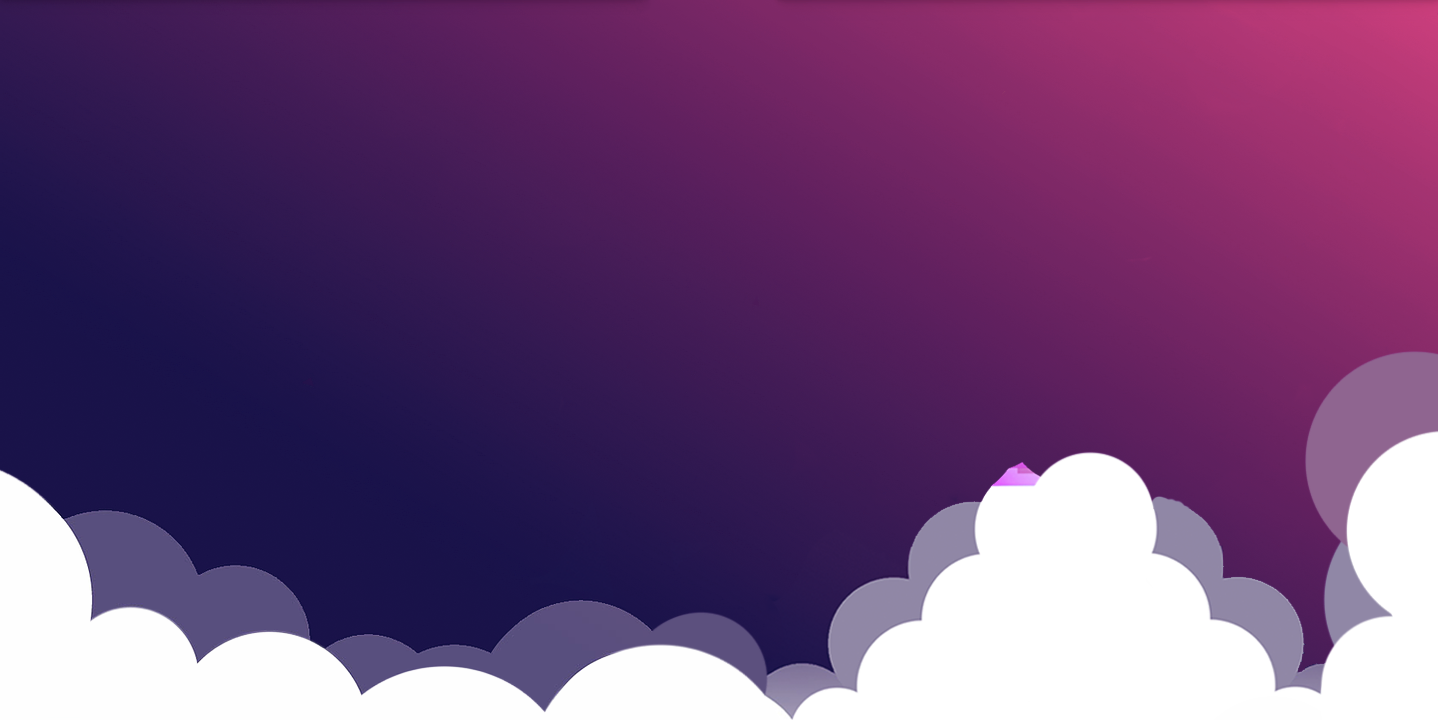
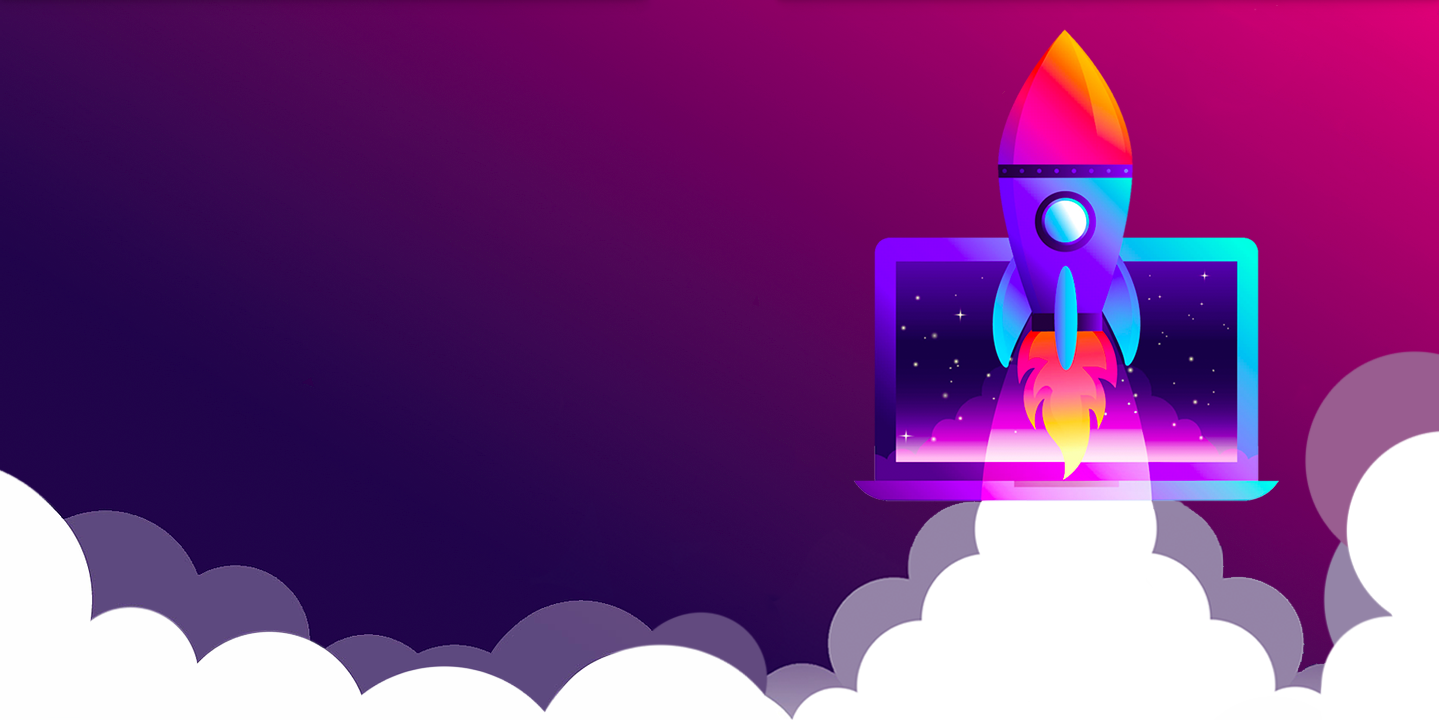
'update'

diff --git a/index.html b/index.html
@@ -57,7 +57,7 @@
                 <h1 class="title text-white mb-20"><span class="one">Digital Design &</span><span class="two">Development Agency</span></h1>
                 <p class="text-white mb-50 lineheight1">
                     We are a Sydney based digital design & development agency here to provide you with quality and affordable services. Our goal is your satisfaction and we are here to work with you every step of the way!
-                    <img src="./images/others/others/index/Main.png" alt="" class="main">
+<!--                    <img src="./images/others/index/Main.png" alt="" class="main">-->
                 </p>
                 <div class="buttons">
                     <a href="#" class="btn-price mr-10 text-15px f-montserratMedium">Pricing</a>
@@ -67,7 +67,7 @@
         </div>
         <div class="right">
             <div class="img-wrapper">
-                <img src="./images/others/index/Main.png" alt="" class="main">
+<!--                <img src="./images/others/index/Main.png" alt="" class="main">-->
             </div>
             <img src="./images/others/landingpage/circle-shape.png" alt="" class="circle">
             <img src="./images/others/landingpage/triangle-shape2.png" alt="" class="triangle2">
